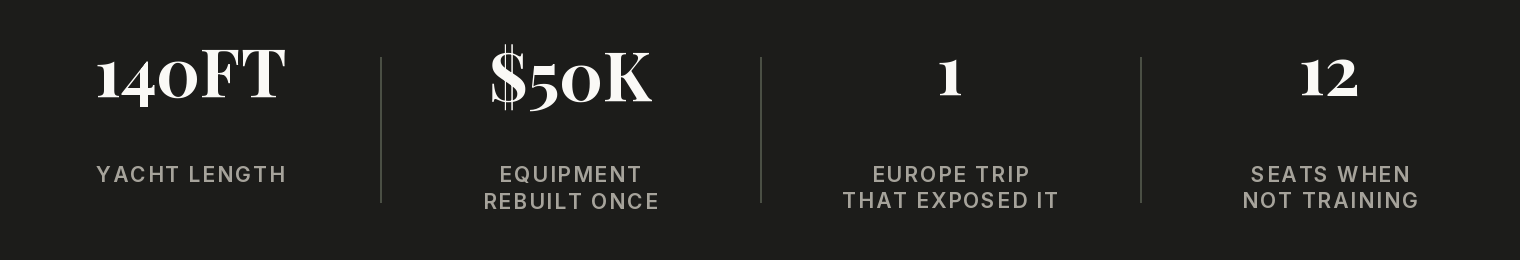
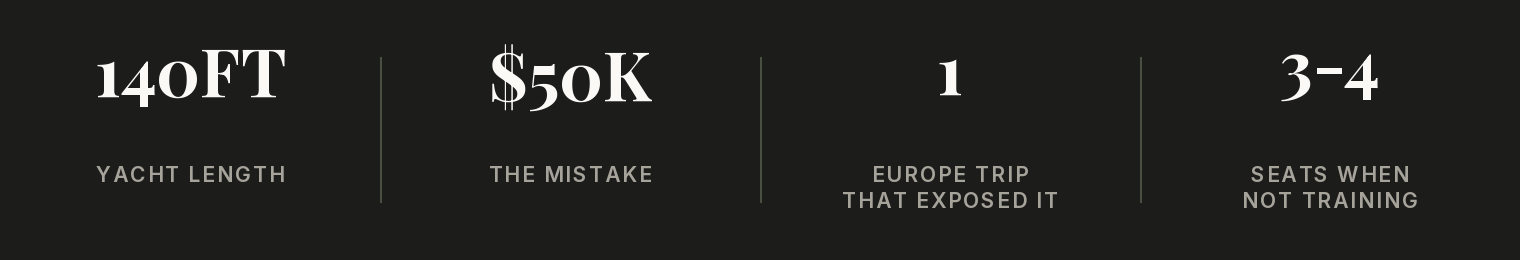
Fix stat bar framing and correct seating capacity
"$50K / Equipment Rebuilt Once" read as neutral/procedural — relabeled
"THE MISTAKE" so it lands as the cost of the error, which is the whole
point of the post. Also corrected an actual factual error: the couch
seats 3-4 people, not twelve — fixed in both the stat bar and the body
copy where "seating for twelve" had been stated outright.

Claude-Session: https://claude.ai/code/session_011dqiNViV6AYWT2NmzL46cA

Changed region(s): [[0.8349, 0.2154, 0.9276, 0.4], [0.3092, 0.6154, 0.4329, 0.7077], [0.3092, 0.7385, 0.4329, 0.8]]

diff --git a/journal/can-you-put-a-real-gym-on-a-yacht-without-it-taking-over-the-deck-email.html b/journal/can-you-put-a-real-gym-on-a-yacht-without-it-taking-over-the-deck-email.html
@@ -64,7 +64,7 @@
 <p>A layout that serves one use and ignores the other isn't a finished design. It's half of one.</p>
 </blockquote>
 <h2 id="03-the-fix">03 / The Fix</h2>
-<p>Build the equipment into the furniture instead of placing furniture around the equipment. The rack, the bench, the storage — all of it now lives inside custom-built outdoor couches and loungers. Train in the morning; by evening it's seating for twelve with drinks on it. Nobody at cocktail hour would guess what's underneath.</p>
+<p>Build the equipment into the furniture instead of placing furniture around the equipment. The rack, the bench, the storage — all of it now lives inside custom-built outdoor couches and loungers. Train in the morning; by evening it's a couch that seats three or four with drinks on it. Nobody at cocktail hour would guess what's underneath.</p>
 <p><img alt="The actual couch — full dumbbell set, TRX bands, and a kettlebell inside, cushions on top" src="https://www.madefromeffort.com/journal/assets/yacht-gym-that-disappears-couch.jpg" /></p>
 <p>And because nothing needs to be moved, stored, or staged, crew never touch it. No setting up equipment before a session, no breaking it down and stowing it after, no gym gear competing with everything else on their list. It's ready, or it's hidden. There's no in-between state for anyone to manage.</p>
 <p><strong>What this means if you're planning a gym for your own yacht:</strong></p>

diff --git a/journal/can-you-put-a-real-gym-on-a-yacht-without-it-taking-over-the-deck.html b/journal/can-you-put-a-real-gym-on-a-yacht-without-it-taking-over-the-deck.html
@@ -75,7 +75,7 @@
 <p>A layout that serves one use and ignores the other isn't a finished design. It's half of one.</p>
 </blockquote>
 <h2 id="03-the-fix">03 / The Fix</h2>
-<p>Build the equipment into the furniture instead of placing furniture around the equipment. The rack, the bench, the storage — all of it now lives inside custom-built outdoor couches and loungers. Train in the morning; by evening it's seating for twelve with drinks on it. Nobody at cocktail hour would guess what's underneath.</p>
+<p>Build the equipment into the furniture instead of placing furniture around the equipment. The rack, the bench, the storage — all of it now lives inside custom-built outdoor couches and loungers. Train in the morning; by evening it's a couch that seats three or four with drinks on it. Nobody at cocktail hour would guess what's underneath.</p>
 <p><img alt="The actual couch — full dumbbell set, TRX bands, and a kettlebell inside, cushions on top" src="https://www.madefromeffort.com/journal/assets/yacht-gym-that-disappears-couch.jpg" /></p>
 <p>And because nothing needs to be moved, stored, or staged, crew never touch it. No setting up equipment before a session, no breaking it down and stowing it after, no gym gear competing with everything else on their list. It's ready, or it's hidden. There's no in-between state for anyone to manage.</p>
 <p><strong>What this means if you're planning a gym for your own yacht:</strong></p>

diff --git a/posts/2026-09-11-yacht-gym-that-disappears.md b/posts/2026-09-11-yacht-gym-that-disappears.md
@@ -4,7 +4,7 @@ date: 2026-09-11
 excerpt: Yes — but only if the equipment disappears when it's not training time. A real refit story about $50,000 in gym equipment, one trip to Europe, and the fix that actually worked.
 issue: "015"
 cta_text: Start a Project
-stats: 140FT:Yacht Length|$50K:Equipment Rebuilt Once|1:Europe Trip That Exposed It|12:Seats When Not Training
+stats: 140FT:Yacht Length|$50K:The Mistake|1:Europe Trip That Exposed It|3-4:Seats When Not Training
 image: https://www.madefromeffort.com/journal/assets/yacht-gym-that-disappears-hero.jpg
 ---
 
@@ -28,7 +28,7 @@ I'd designed for how the space would be used, but not for everything it would be
 
 ## 03 / The Fix
 
-Build the equipment into the furniture instead of placing furniture around the equipment. The rack, the bench, the storage — all of it now lives inside custom-built outdoor couches and loungers. Train in the morning; by evening it's seating for twelve with drinks on it. Nobody at cocktail hour would guess what's underneath.
+Build the equipment into the furniture instead of placing furniture around the equipment. The rack, the bench, the storage — all of it now lives inside custom-built outdoor couches and loungers. Train in the morning; by evening it's a couch that seats three or four with drinks on it. Nobody at cocktail hour would guess what's underneath.
 
 ![The actual couch — full dumbbell set, TRX bands, and a kettlebell inside, cushions on top](https://www.madefromeffort.com/journal/assets/yacht-gym-that-disappears-couch.jpg)
 
